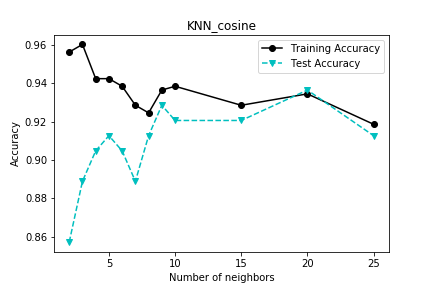
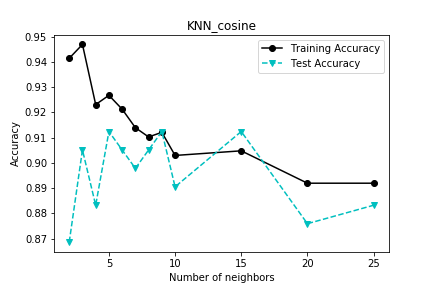
Changed z score test

diff --git a/v1/test.py b/v1/test.py
@@ -1,9 +1,7 @@
 import numpy as np
 import pandas as pd
 import matplotlib.pyplot as plt
-from mpl_toolkits.mplot3d import Axes3D
 
-from sklearn.ensemble import IsolationForest
 from sklearn.model_selection import train_test_split
 from sklearn import metrics
 from sklearn import tree
@@ -11,14 +9,6 @@ from sklearn.neighbors import KNeighborsClassifier
 from sklearn.metrics import accuracy_score
 from scipy.stats import zscore
 
-
-def outliers(x_train, x_test, y_train, y_test):
-    clf = IsolationForest(n_estimators=100, max_samples="auto")
-    clf.fit(x_train)
-    pred = clf.predict(x_train)
-    outliers_values = x_train[pred == -1]
-    
-   
     
 def print_acc(trainAcc, testAcc, dp, c1, c2,xAxis,file_name):
     
@@ -90,13 +80,15 @@ def split_data(file):
     print(file.info(), '\n')
     
     # Removing outliers
+    print(file.shape, 'Before')
     z=np.abs(zscore(file))
-    outlier_row3,outlier_col3=np.where(z>=3)
+    outlier_row3,outlier_col3=np.where(z>=3) 
     outlier_row_3,outlier_col_3=np.where(z<=-3)
-    # print(outlier_row_3) ## No attributes are outliers with zscore <=-3
     dataset=file.drop(file.index[outlier_row3])
+    dataset=file.drop(file.index[outlier_row_3])
     file=dataset.reset_index(drop=True)
-    
+    print(file.shape, 'After')
+    print(file.isnull().sum())
     
     # Splitting data
     train, test = train_test_split(file,test_size=0.2, random_state=2142)
@@ -172,8 +164,6 @@ def main():
         #Printing graph
         print_acc(trainAcc, testAcc, dp, colors[count],colors[5 - count], 'Number of neighbors', 'KNN_' + j)
         count += 1
-
-    outliers(x_train, x_test, y_train, y_test)
 
 
 if __name__ == '__main__':
